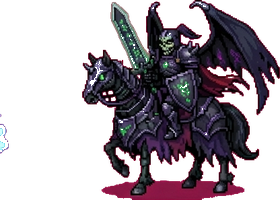
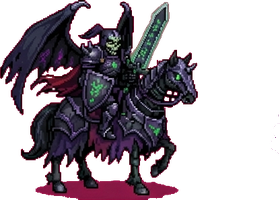
Remove blue artifacts from dark rider, special left position
- Aggressive pixel removal for right-side blue (b > r)
- Dark rider (hard_dia): right:20px instead of -70px

diff --git a/game.html b/game.html
@@ -1464,7 +1464,7 @@ function startDungeon(difficulty) {
   const monsterName = document.getElementById('monsterName');
   if (monsterEl) { monsterEl.src = boss.sprite; monsterEl.style.width = '240px'; monsterEl.style.height = '240px'; }
   const mc = document.getElementById('monsterContainer');
-  if (mc) { mc.style.bottom = '5px'; mc.style.right = '-70px'; }
+  if (mc) { mc.style.bottom = '5px'; mc.style.right = difficulty === 'hard_dia' ? '20px' : '-70px'; }
   if (monsterName) monsterName.textContent = boss.name;
   showFloatText(`⚔ ${boss.label} 던전 도전!`, boss.color);
   updateDungeonTimerDisplay();
